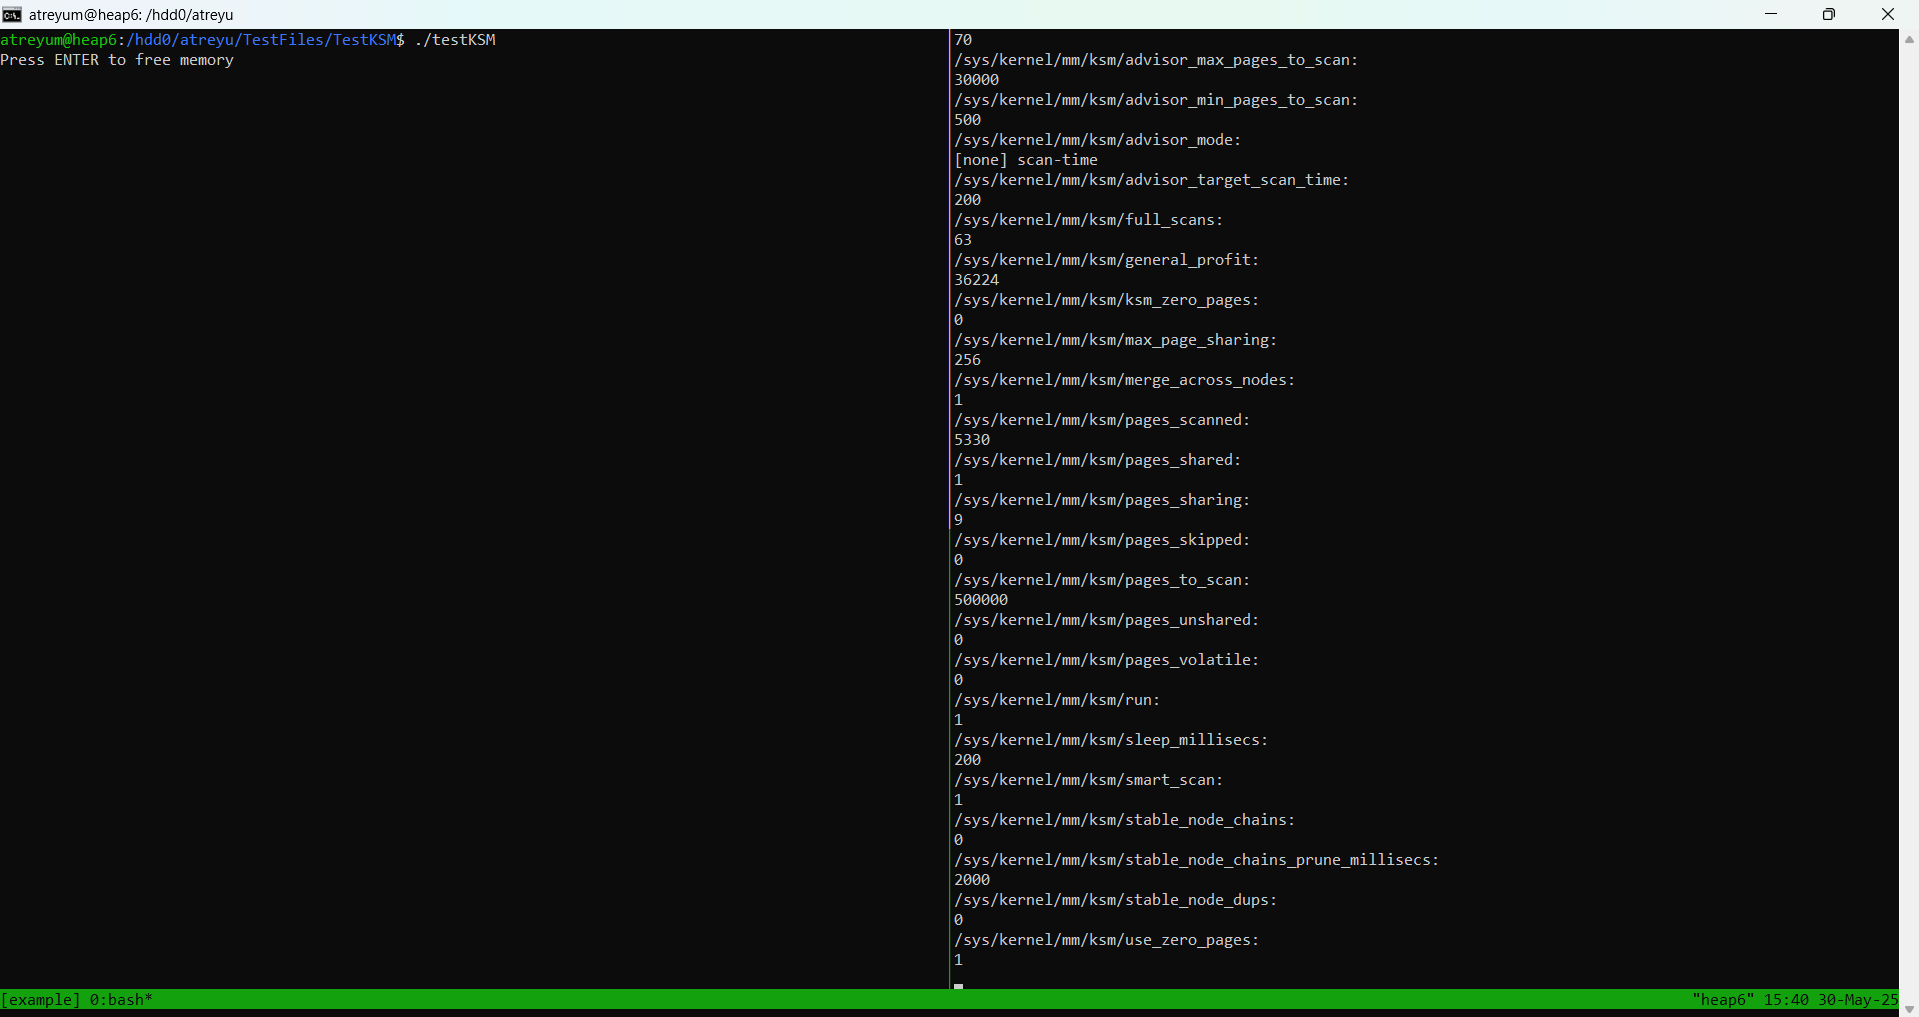
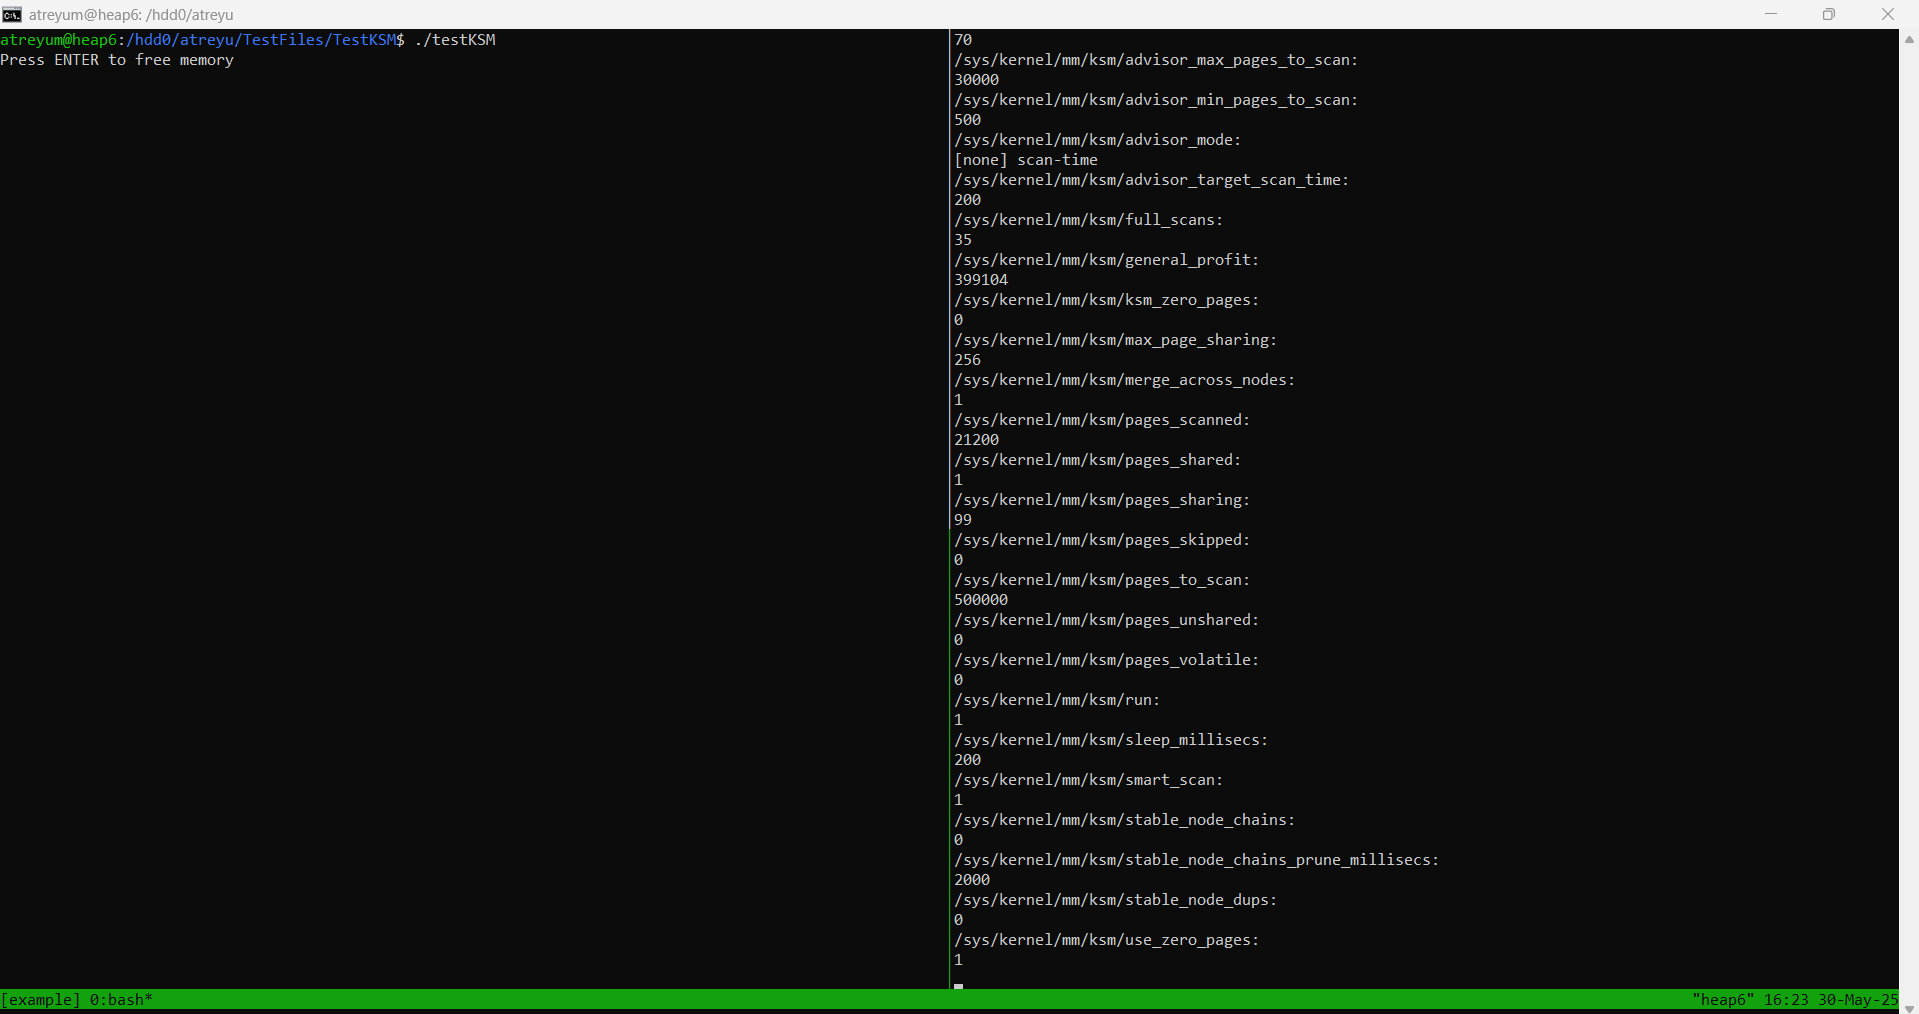
updated ksm example

diff --git a/Example/README.md b/Example/README.md
@@ -4,10 +4,15 @@ This is the readme for the tutorial. In your environment, run `./ksminit.sh`. Th
 1
 2
 ```
-Let's see what happens when we run KSM in the system as-is. I've att
+Let's see what happens when we run KSM in the system as-is. For this, you'll want 2 vertical windows as shown in the upcoming screenshot. 
   
 Now KSM is ready to be used. In one tmux window, run `./testKSM` to allocate 100 mergeable pages, don't free the memory yet! In the other tmux window, run `./ksmstart.sh`, then `./ksmwatch.sh` to start and observe KSM levels. This is what mine looks like:  
-
 ![screenshot](../Images/testKSM.png)  
+  
+Once you're able to approximately replicate this, feel free to hit Crtl+C in the window running `./ksmwatch.sh`, then run `./ksmend.sh`. Now, the two fields to pay attention to in `ksmwatch` are `pages_shared` and `pages_sharing`. You'll notice in the screenshot that `pages_shared` is 1 and `pages_sharing` is 99, which means that one page has been deduplicated 99 times, which adds up to our 100 mergeable pages!  
 
-hello
+Now, let's see what happens when we run `./testZERO`, which is nearly the same as `./testKSM`, except 50 of the pages it allocates are zero-pages. Here's my results:  
+![screenshot](../Images/testZERO.png)  
+
+Again, once you've approximately replicated this, hit Crtl+C in the window running `./ksmwatch.sh`, then run `./ksmend.sh` to end KSM. This time, there are three fields to pay attention to in `ksmwatch`: `ksm_zero_pages`, `pages_shared`, and `pages_sharing`. You'll notice in the screenshot that `ksm_zero_pages` is 50 (due to the 50 zero-pages we allocated), `pages_shared` is still 1, and `pages_sharing` is now 49!  
+
